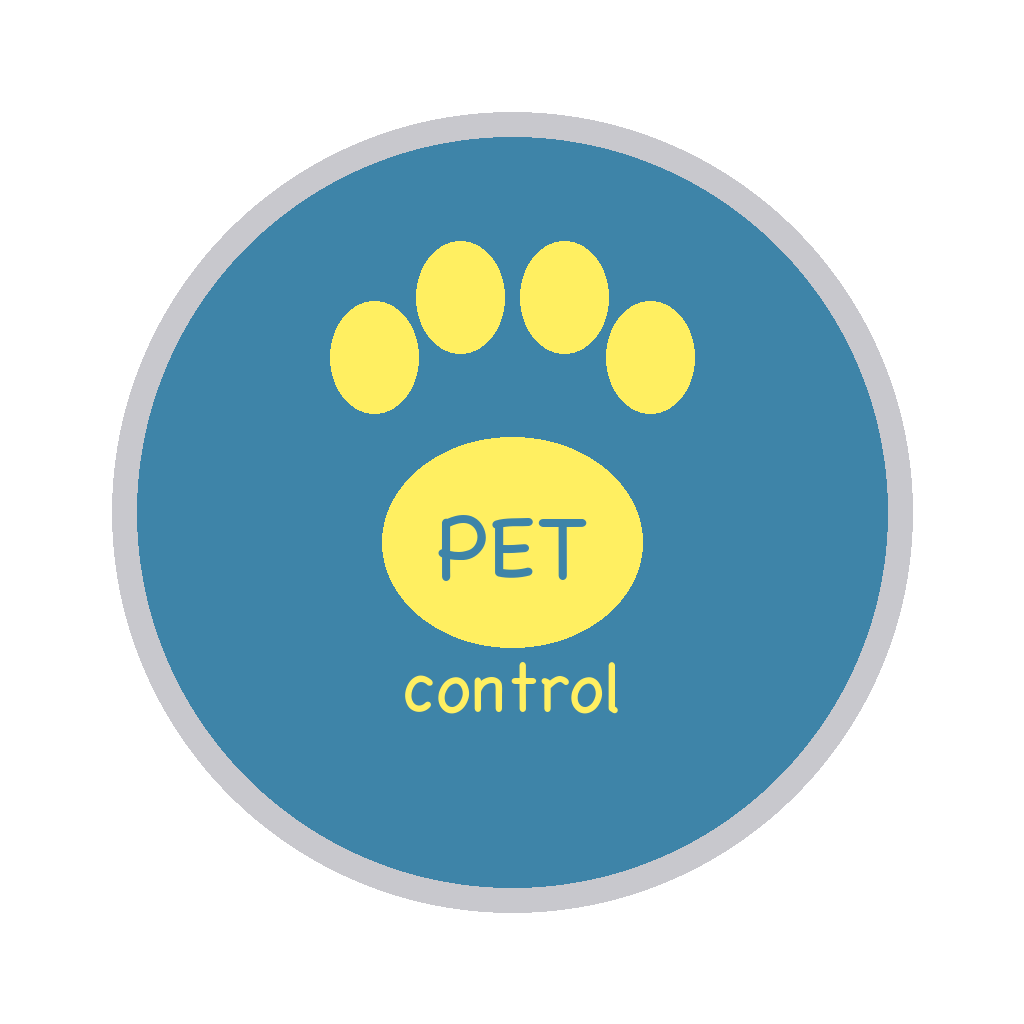
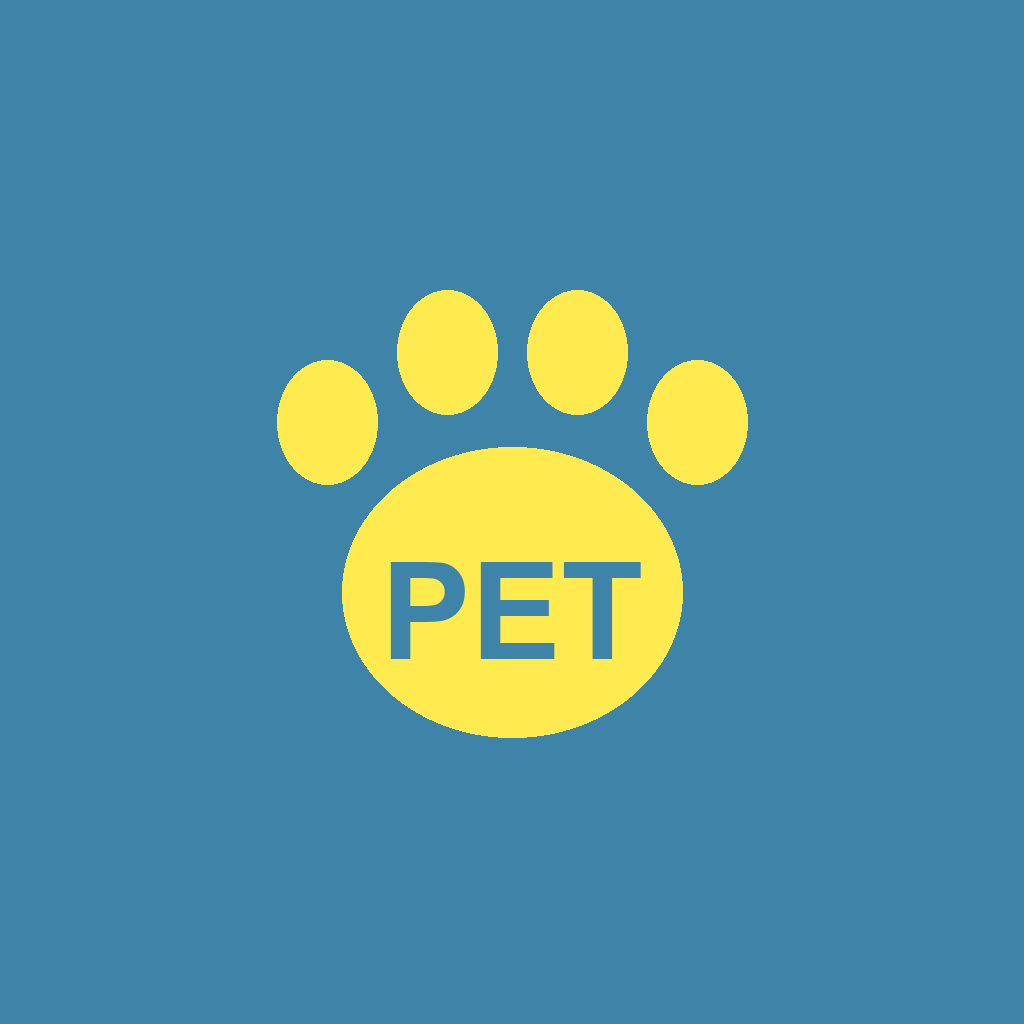
fix: corrige navegação dos modais e atualiza ícone do app
- Troca router.navigate por router.push nos Displayers para que o back()
  retorne ao pet em vez de ir para a Home
- Redesenha icon.png e adaptive-icon.png com fundo sólido azul (sem borda
  circular cinza)
- Bump versionCode 6 → 7

diff --git a/src/components/Displayers/AppointmentsDisplay/index.tsx b/src/components/Displayers/AppointmentsDisplay/index.tsx
@@ -33,7 +33,7 @@ export function AppointmentsDisplay({ petId }: Props) {
         <Container>
             <AddButton
                 onPress={() =>
-                    router.navigate({
+                    router.push({
                         pathname: '/appointments',
                         params: { petId: pet[0].id },
                     })

diff --git a/src/components/Displayers/MedicationsDisplay/index.tsx b/src/components/Displayers/MedicationsDisplay/index.tsx
@@ -36,7 +36,7 @@ export function MedicationsDisplay({ petId }: Props) {
         <Container>
             <AddButton
                 onPress={() =>
-                    router.navigate({
+                    router.push({
                         pathname: '/medications',
                         params: { petId: pet[0].id },
                     })

diff --git a/src/components/Displayers/DewormingDisplay/index.tsx b/src/components/Displayers/DewormingDisplay/index.tsx
@@ -39,7 +39,7 @@ export function DewormingDisplay({ petId }: Props) {
         <Container>
             <AddButton
                 onPress={() =>
-                    router.navigate({
+                    router.push({
                         pathname: '/deworming',
                         params: { petId: pet[0].id },
                     })

diff --git a/src/components/Displayers/VaccinesDisplay/index.tsx b/src/components/Displayers/VaccinesDisplay/index.tsx
@@ -36,7 +36,7 @@ export function VaccinesDisplay({ petId }: Props) {
         <Container>
             <AddButton
                 onPress={() =>
-                    router.navigate({
+                    router.push({
                         pathname: '/vaccines',
                         params: { petId: pet[0].id },
                     })

diff --git a/src/components/Displayers/HygieneDisplay/index.tsx b/src/components/Displayers/HygieneDisplay/index.tsx
@@ -44,7 +44,7 @@ export function HygieneDisplay({ petId }: Props) {
         <Container>
             <AddButton
                 onPress={() =>
-                    router.navigate({
+                    router.push({
                         pathname: '/hygiene',
                         params: { petId: pet[0].id },
                     })

diff --git a/src/components/Displayers/WeightDisplay/index.tsx b/src/components/Displayers/WeightDisplay/index.tsx
@@ -36,7 +36,7 @@ export function WeightDisplay({ petId }: Props) {
         <Container>
             <AddButton
                 onPress={() =>
-                    router.navigate({
+                    router.push({
                         pathname: '/weight',
                         params: { petId: pet[0].id },
                     })
